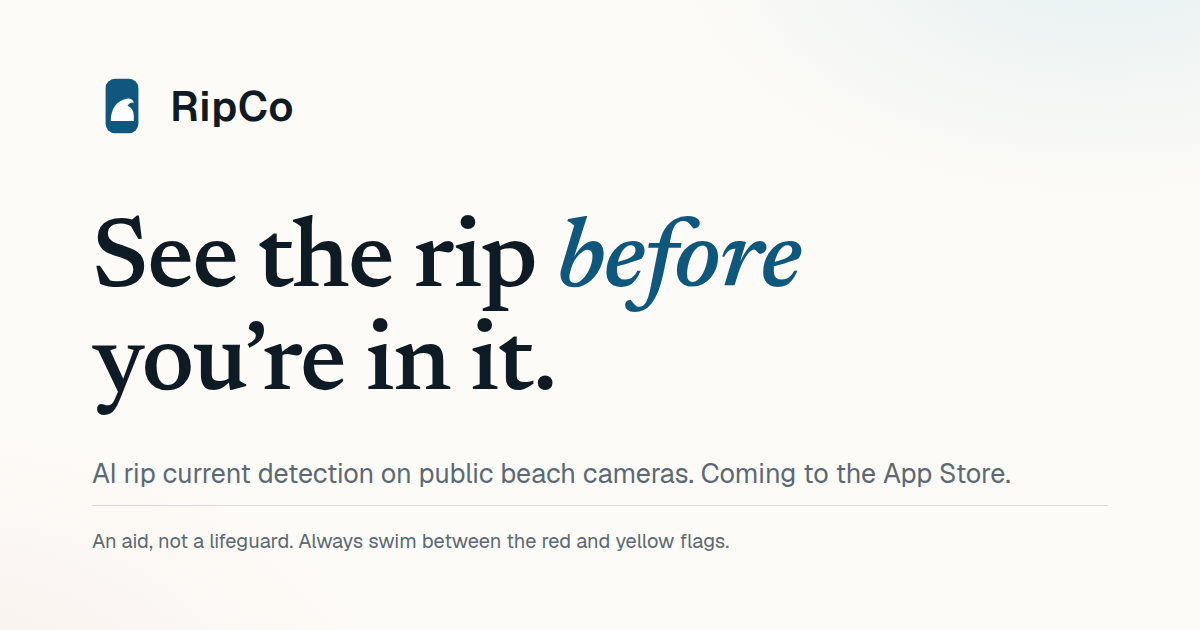
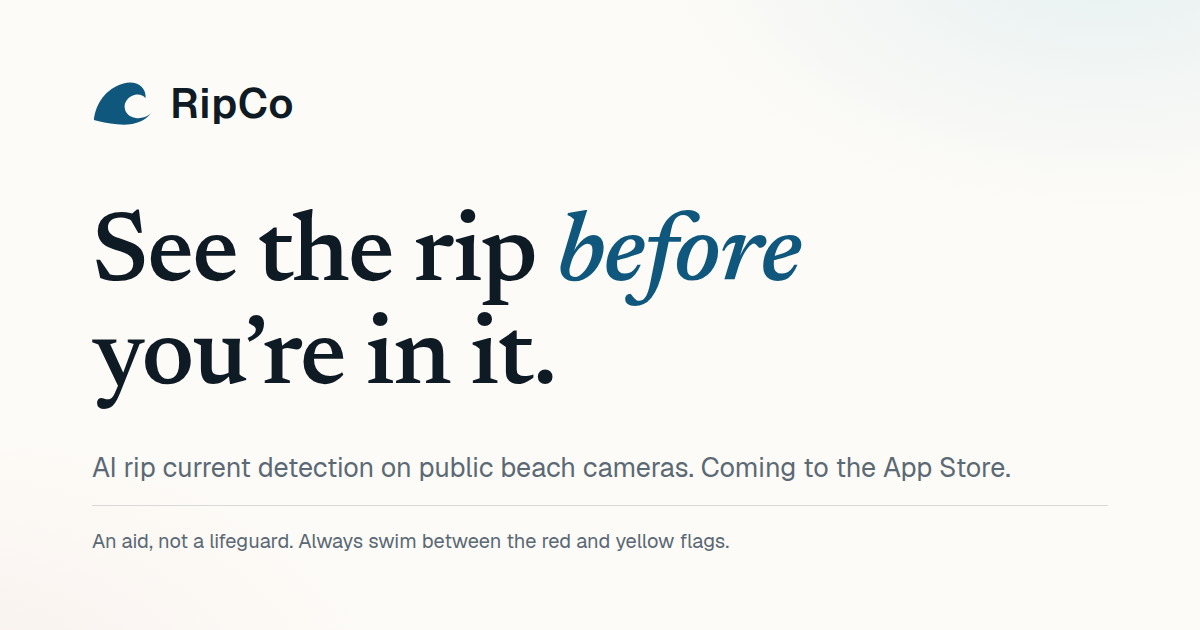
Adopt the standalone wave as the RipCo mark
- The brand mark is now the supplied breaking-wave silhouette, drawn
  as a single solid path in the accent blue, replacing the phone
  container everywhere: header and footer brand on all seven pages,
  assets/logo.svg, the favicon tile, and regenerated favicon-32,
  apple-touch-icon and og-image
- The giant cropped footer wordmark gains the same wave beside the
  word, in the watermark surface white at cap height, matching the
  reference closing treatment

Claude-Session: https://claude.ai/code/session_018vPxxK5AbKmmkks2Ty1eu9

diff --git a/styles.css b/styles.css
@@ -1582,6 +1582,15 @@ html.js .faq__panel-inner { overflow: hidden; }
   color: var(--surface);
   user-select: none;
 }
+/* The wave mark sits beside the giant wordmark in the same
+   watermark surface white, cap-height sized */
+.site-footer__wordmark svg {
+  display: inline-block;
+  height: 0.68em;
+  width: auto;
+  margin-right: 0.09em;
+  vertical-align: baseline;
+}
 .site-footer__grid {
   display: grid;
   grid-template-columns: minmax(0, 2fr) repeat(4, minmax(0, 1fr));

diff --git a/404.html b/404.html
@@ -25,7 +25,7 @@
     <div class="scroll-progress" data-progress aria-hidden="true"></div>
     <div class="site-header__inner container container--wide">
       <a class="brand" href="/" aria-label="RipCo, home">
-        <svg class="brand__mark" viewBox="0 0 64 64" aria-hidden="true" focusable="false"><rect x="14.5" y="3" width="35" height="58" rx="10" fill="var(--accent)"/><path fill="var(--on-accent)" d="M20 48 C20 35 26.5 25.8 37 24.2 C40.6 23.6 43.7 25.3 44.8 28.3 C42 27.9 39.3 29.1 37.8 31.8 C42 33.3 44.6 37.4 44.6 42.6 L44.6 48 Z"/></svg>
+        <svg class="brand__mark" viewBox="9 13 48 38" aria-hidden="true" focusable="false"><path fill="var(--accent)" d="M10.5 45.5 C12 32 20.5 20.5 33.5 16.6 C39.5 14.8 45 15.6 48.4 18.8 C51 21.2 52.2 24.6 51.8 28.2 C49.4 25 44.6 24.3 40.4 26.6 C36.6 28.7 34.7 32.3 35.2 36 C35.7 40.2 39.3 43.4 44 44 C48.3 44.6 52.8 43.2 56 40.4 C51 47.4 40.5 50.4 29 49 C22 48.2 15.3 47 10.5 45.5 Z"/></svg>
         <span class="brand__name">RipCo</span>
       </a>
       <button class="nav-toggle" type="button" aria-expanded="false" aria-controls="site-nav" aria-label="Menu" data-nav-toggle>
@@ -75,7 +75,7 @@
       <div class="site-footer__grid">
         <div class="site-footer__brand">
           <a class="brand" href="/" aria-label="RipCo, home">
-            <svg class="brand__mark" viewBox="0 0 64 64" aria-hidden="true" focusable="false"><rect x="14.5" y="3" width="35" height="58" rx="10" fill="var(--accent)"/><path fill="var(--on-accent)" d="M20 48 C20 35 26.5 25.8 37 24.2 C40.6 23.6 43.7 25.3 44.8 28.3 C42 27.9 39.3 29.1 37.8 31.8 C42 33.3 44.6 37.4 44.6 42.6 L44.6 48 Z"/></svg>
+            <svg class="brand__mark" viewBox="9 13 48 38" aria-hidden="true" focusable="false"><path fill="var(--accent)" d="M10.5 45.5 C12 32 20.5 20.5 33.5 16.6 C39.5 14.8 45 15.6 48.4 18.8 C51 21.2 52.2 24.6 51.8 28.2 C49.4 25 44.6 24.3 40.4 26.6 C36.6 28.7 34.7 32.3 35.2 36 C35.7 40.2 39.3 43.4 44 44 C48.3 44.6 52.8 43.2 56 40.4 C51 47.4 40.5 50.4 29 49 C22 48.2 15.3 47 10.5 45.5 Z"/></svg>
             <span class="brand__name">RipCo</span>
           </a>
           <p class="site-footer__line">Always swim between the red and yellow flags and follow the lifeguards. RipCo is an aid and not a substitute for lifeguard advice.</p>
@@ -116,7 +116,7 @@
         <p>Rip currents can appear even in calmer-looking water.</p>
       </div>
     </div>
-    <div class="site-footer__wordmark" aria-hidden="true"><span>RipCo</span></div>
+    <div class="site-footer__wordmark" aria-hidden="true"><span><svg viewBox="9 13 48 38" focusable="false"><path fill="currentColor" d="M10.5 45.5 C12 32 20.5 20.5 33.5 16.6 C39.5 14.8 45 15.6 48.4 18.8 C51 21.2 52.2 24.6 51.8 28.2 C49.4 25 44.6 24.3 40.4 26.6 C36.6 28.7 34.7 32.3 35.2 36 C35.7 40.2 39.3 43.4 44 44 C48.3 44.6 52.8 43.2 56 40.4 C51 47.4 40.5 50.4 29 49 C22 48.2 15.3 47 10.5 45.5 Z"/></svg>RipCo</span></div>
   </footer>
 
 </body>

diff --git a/account.html b/account.html
@@ -30,7 +30,7 @@
     <div class="scroll-progress" data-progress aria-hidden="true"></div>
     <div class="site-header__inner container container--wide">
       <a class="brand" href="/" aria-label="RipCo, home">
-        <svg class="brand__mark" viewBox="0 0 64 64" aria-hidden="true" focusable="false"><rect x="14.5" y="3" width="35" height="58" rx="10" fill="var(--accent)"/><path fill="var(--on-accent)" d="M20 48 C20 35 26.5 25.8 37 24.2 C40.6 23.6 43.7 25.3 44.8 28.3 C42 27.9 39.3 29.1 37.8 31.8 C42 33.3 44.6 37.4 44.6 42.6 L44.6 48 Z"/></svg>
+        <svg class="brand__mark" viewBox="9 13 48 38" aria-hidden="true" focusable="false"><path fill="var(--accent)" d="M10.5 45.5 C12 32 20.5 20.5 33.5 16.6 C39.5 14.8 45 15.6 48.4 18.8 C51 21.2 52.2 24.6 51.8 28.2 C49.4 25 44.6 24.3 40.4 26.6 C36.6 28.7 34.7 32.3 35.2 36 C35.7 40.2 39.3 43.4 44 44 C48.3 44.6 52.8 43.2 56 40.4 C51 47.4 40.5 50.4 29 49 C22 48.2 15.3 47 10.5 45.5 Z"/></svg>
         <span class="brand__name">RipCo</span>
       </a>
       <button class="nav-toggle" type="button" aria-expanded="false" aria-controls="site-nav" aria-label="Menu" data-nav-toggle>
@@ -232,7 +232,7 @@
       <div class="site-footer__grid">
         <div class="site-footer__brand">
           <a class="brand" href="/" aria-label="RipCo, home">
-            <svg class="brand__mark" viewBox="0 0 64 64" aria-hidden="true" focusable="false"><rect x="14.5" y="3" width="35" height="58" rx="10" fill="var(--accent)"/><path fill="var(--on-accent)" d="M20 48 C20 35 26.5 25.8 37 24.2 C40.6 23.6 43.7 25.3 44.8 28.3 C42 27.9 39.3 29.1 37.8 31.8 C42 33.3 44.6 37.4 44.6 42.6 L44.6 48 Z"/></svg>
+            <svg class="brand__mark" viewBox="9 13 48 38" aria-hidden="true" focusable="false"><path fill="var(--accent)" d="M10.5 45.5 C12 32 20.5 20.5 33.5 16.6 C39.5 14.8 45 15.6 48.4 18.8 C51 21.2 52.2 24.6 51.8 28.2 C49.4 25 44.6 24.3 40.4 26.6 C36.6 28.7 34.7 32.3 35.2 36 C35.7 40.2 39.3 43.4 44 44 C48.3 44.6 52.8 43.2 56 40.4 C51 47.4 40.5 50.4 29 49 C22 48.2 15.3 47 10.5 45.5 Z"/></svg>
             <span class="brand__name">RipCo</span>
           </a>
           <p class="site-footer__line">Always swim between the red and yellow flags and follow the lifeguards. RipCo is an aid and not a substitute for lifeguard advice.</p>
@@ -273,7 +273,7 @@
         <p>Rip currents can appear even in calmer-looking water.</p>
       </div>
     </div>
-    <div class="site-footer__wordmark" aria-hidden="true"><span>RipCo</span></div>
+    <div class="site-footer__wordmark" aria-hidden="true"><span><svg viewBox="9 13 48 38" focusable="false"><path fill="currentColor" d="M10.5 45.5 C12 32 20.5 20.5 33.5 16.6 C39.5 14.8 45 15.6 48.4 18.8 C51 21.2 52.2 24.6 51.8 28.2 C49.4 25 44.6 24.3 40.4 26.6 C36.6 28.7 34.7 32.3 35.2 36 C35.7 40.2 39.3 43.4 44 44 C48.3 44.6 52.8 43.2 56 40.4 C51 47.4 40.5 50.4 29 49 C22 48.2 15.3 47 10.5 45.5 Z"/></svg>RipCo</span></div>
   </footer>
 
 </body>

diff --git a/beaches.html b/beaches.html
@@ -32,7 +32,7 @@
     <div class="scroll-progress" data-progress aria-hidden="true"></div>
     <div class="site-header__inner container container--wide">
       <a class="brand" href="/" aria-label="RipCo, home">
-        <svg class="brand__mark" viewBox="0 0 64 64" aria-hidden="true" focusable="false"><rect x="14.5" y="3" width="35" height="58" rx="10" fill="var(--accent)"/><path fill="var(--on-accent)" d="M20 48 C20 35 26.5 25.8 37 24.2 C40.6 23.6 43.7 25.3 44.8 28.3 C42 27.9 39.3 29.1 37.8 31.8 C42 33.3 44.6 37.4 44.6 42.6 L44.6 48 Z"/></svg>
+        <svg class="brand__mark" viewBox="9 13 48 38" aria-hidden="true" focusable="false"><path fill="var(--accent)" d="M10.5 45.5 C12 32 20.5 20.5 33.5 16.6 C39.5 14.8 45 15.6 48.4 18.8 C51 21.2 52.2 24.6 51.8 28.2 C49.4 25 44.6 24.3 40.4 26.6 C36.6 28.7 34.7 32.3 35.2 36 C35.7 40.2 39.3 43.4 44 44 C48.3 44.6 52.8 43.2 56 40.4 C51 47.4 40.5 50.4 29 49 C22 48.2 15.3 47 10.5 45.5 Z"/></svg>
         <span class="brand__name">RipCo</span>
       </a>
       <button class="nav-toggle" type="button" aria-expanded="false" aria-controls="site-nav" aria-label="Menu" data-nav-toggle>
@@ -243,7 +243,7 @@
       <div class="site-footer__grid">
         <div class="site-footer__brand">
           <a class="brand" href="/" aria-label="RipCo, home">
-            <svg class="brand__mark" viewBox="0 0 64 64" aria-hidden="true" focusable="false"><rect x="14.5" y="3" width="35" height="58" rx="10" fill="var(--accent)"/><path fill="var(--on-accent)" d="M20 48 C20 35 26.5 25.8 37 24.2 C40.6 23.6 43.7 25.3 44.8 28.3 C42 27.9 39.3 29.1 37.8 31.8 C42 33.3 44.6 37.4 44.6 42.6 L44.6 48 Z"/></svg>
+            <svg class="brand__mark" viewBox="9 13 48 38" aria-hidden="true" focusable="false"><path fill="var(--accent)" d="M10.5 45.5 C12 32 20.5 20.5 33.5 16.6 C39.5 14.8 45 15.6 48.4 18.8 C51 21.2 52.2 24.6 51.8 28.2 C49.4 25 44.6 24.3 40.4 26.6 C36.6 28.7 34.7 32.3 35.2 36 C35.7 40.2 39.3 43.4 44 44 C48.3 44.6 52.8 43.2 56 40.4 C51 47.4 40.5 50.4 29 49 C22 48.2 15.3 47 10.5 45.5 Z"/></svg>
             <span class="brand__name">RipCo</span>
           </a>
           <p class="site-footer__line">Always swim between the red and yellow flags and follow the lifeguards. RipCo is an aid and not a substitute for lifeguard advice.</p>
@@ -284,7 +284,7 @@
         <p>Rip currents can appear even in calmer-looking water.</p>
       </div>
     </div>
-    <div class="site-footer__wordmark" aria-hidden="true"><span>RipCo</span></div>
+    <div class="site-footer__wordmark" aria-hidden="true"><span><svg viewBox="9 13 48 38" focusable="false"><path fill="currentColor" d="M10.5 45.5 C12 32 20.5 20.5 33.5 16.6 C39.5 14.8 45 15.6 48.4 18.8 C51 21.2 52.2 24.6 51.8 28.2 C49.4 25 44.6 24.3 40.4 26.6 C36.6 28.7 34.7 32.3 35.2 36 C35.7 40.2 39.3 43.4 44 44 C48.3 44.6 52.8 43.2 56 40.4 C51 47.4 40.5 50.4 29 49 C22 48.2 15.3 47 10.5 45.5 Z"/></svg>RipCo</span></div>
   </footer>
 
 </body>

diff --git a/features.html b/features.html
@@ -29,7 +29,7 @@
     <div class="scroll-progress" data-progress aria-hidden="true"></div>
     <div class="site-header__inner container container--wide">
       <a class="brand" href="/" aria-label="RipCo, home">
-        <svg class="brand__mark" viewBox="0 0 64 64" aria-hidden="true" focusable="false"><rect x="14.5" y="3" width="35" height="58" rx="10" fill="var(--accent)"/><path fill="var(--on-accent)" d="M20 48 C20 35 26.5 25.8 37 24.2 C40.6 23.6 43.7 25.3 44.8 28.3 C42 27.9 39.3 29.1 37.8 31.8 C42 33.3 44.6 37.4 44.6 42.6 L44.6 48 Z"/></svg>
+        <svg class="brand__mark" viewBox="9 13 48 38" aria-hidden="true" focusable="false"><path fill="var(--accent)" d="M10.5 45.5 C12 32 20.5 20.5 33.5 16.6 C39.5 14.8 45 15.6 48.4 18.8 C51 21.2 52.2 24.6 51.8 28.2 C49.4 25 44.6 24.3 40.4 26.6 C36.6 28.7 34.7 32.3 35.2 36 C35.7 40.2 39.3 43.4 44 44 C48.3 44.6 52.8 43.2 56 40.4 C51 47.4 40.5 50.4 29 49 C22 48.2 15.3 47 10.5 45.5 Z"/></svg>
         <span class="brand__name">RipCo</span>
       </a>
       <button class="nav-toggle" type="button" aria-expanded="false" aria-controls="site-nav" aria-label="Menu" data-nav-toggle>
@@ -199,7 +199,7 @@
       <div class="site-footer__grid">
         <div class="site-footer__brand">
           <a class="brand" href="/" aria-label="RipCo, home">
-            <svg class="brand__mark" viewBox="0 0 64 64" aria-hidden="true" focusable="false"><rect x="14.5" y="3" width="35" height="58" rx="10" fill="var(--accent)"/><path fill="var(--on-accent)" d="M20 48 C20 35 26.5 25.8 37 24.2 C40.6 23.6 43.7 25.3 44.8 28.3 C42 27.9 39.3 29.1 37.8 31.8 C42 33.3 44.6 37.4 44.6 42.6 L44.6 48 Z"/></svg>
+            <svg class="brand__mark" viewBox="9 13 48 38" aria-hidden="true" focusable="false"><path fill="var(--accent)" d="M10.5 45.5 C12 32 20.5 20.5 33.5 16.6 C39.5 14.8 45 15.6 48.4 18.8 C51 21.2 52.2 24.6 51.8 28.2 C49.4 25 44.6 24.3 40.4 26.6 C36.6 28.7 34.7 32.3 35.2 36 C35.7 40.2 39.3 43.4 44 44 C48.3 44.6 52.8 43.2 56 40.4 C51 47.4 40.5 50.4 29 49 C22 48.2 15.3 47 10.5 45.5 Z"/></svg>
             <span class="brand__name">RipCo</span>
           </a>
           <p class="site-footer__line">Always swim between the red and yellow flags and follow the lifeguards. RipCo is an aid and not a substitute for lifeguard advice.</p>
@@ -240,7 +240,7 @@
         <p>Rip currents can appear even in calmer-looking water.</p>
       </div>
     </div>
-    <div class="site-footer__wordmark" aria-hidden="true"><span>RipCo</span></div>
+    <div class="site-footer__wordmark" aria-hidden="true"><span><svg viewBox="9 13 48 38" focusable="false"><path fill="currentColor" d="M10.5 45.5 C12 32 20.5 20.5 33.5 16.6 C39.5 14.8 45 15.6 48.4 18.8 C51 21.2 52.2 24.6 51.8 28.2 C49.4 25 44.6 24.3 40.4 26.6 C36.6 28.7 34.7 32.3 35.2 36 C35.7 40.2 39.3 43.4 44 44 C48.3 44.6 52.8 43.2 56 40.4 C51 47.4 40.5 50.4 29 49 C22 48.2 15.3 47 10.5 45.5 Z"/></svg>RipCo</span></div>
   </footer>
 
 </body>

diff --git a/how-it-works.html b/how-it-works.html
@@ -29,7 +29,7 @@
     <div class="scroll-progress" data-progress aria-hidden="true"></div>
     <div class="site-header__inner container container--wide">
       <a class="brand" href="/" aria-label="RipCo, home">
-        <svg class="brand__mark" viewBox="0 0 64 64" aria-hidden="true" focusable="false"><rect x="14.5" y="3" width="35" height="58" rx="10" fill="var(--accent)"/><path fill="var(--on-accent)" d="M20 48 C20 35 26.5 25.8 37 24.2 C40.6 23.6 43.7 25.3 44.8 28.3 C42 27.9 39.3 29.1 37.8 31.8 C42 33.3 44.6 37.4 44.6 42.6 L44.6 48 Z"/></svg>
+        <svg class="brand__mark" viewBox="9 13 48 38" aria-hidden="true" focusable="false"><path fill="var(--accent)" d="M10.5 45.5 C12 32 20.5 20.5 33.5 16.6 C39.5 14.8 45 15.6 48.4 18.8 C51 21.2 52.2 24.6 51.8 28.2 C49.4 25 44.6 24.3 40.4 26.6 C36.6 28.7 34.7 32.3 35.2 36 C35.7 40.2 39.3 43.4 44 44 C48.3 44.6 52.8 43.2 56 40.4 C51 47.4 40.5 50.4 29 49 C22 48.2 15.3 47 10.5 45.5 Z"/></svg>
         <span class="brand__name">RipCo</span>
       </a>
       <button class="nav-toggle" type="button" aria-expanded="false" aria-controls="site-nav" aria-label="Menu" data-nav-toggle>
@@ -237,7 +237,7 @@
       <div class="site-footer__grid">
         <div class="site-footer__brand">
           <a class="brand" href="/" aria-label="RipCo, home">
-            <svg class="brand__mark" viewBox="0 0 64 64" aria-hidden="true" focusable="false"><rect x="14.5" y="3" width="35" height="58" rx="10" fill="var(--accent)"/><path fill="var(--on-accent)" d="M20 48 C20 35 26.5 25.8 37 24.2 C40.6 23.6 43.7 25.3 44.8 28.3 C42 27.9 39.3 29.1 37.8 31.8 C42 33.3 44.6 37.4 44.6 42.6 L44.6 48 Z"/></svg>
+            <svg class="brand__mark" viewBox="9 13 48 38" aria-hidden="true" focusable="false"><path fill="var(--accent)" d="M10.5 45.5 C12 32 20.5 20.5 33.5 16.6 C39.5 14.8 45 15.6 48.4 18.8 C51 21.2 52.2 24.6 51.8 28.2 C49.4 25 44.6 24.3 40.4 26.6 C36.6 28.7 34.7 32.3 35.2 36 C35.7 40.2 39.3 43.4 44 44 C48.3 44.6 52.8 43.2 56 40.4 C51 47.4 40.5 50.4 29 49 C22 48.2 15.3 47 10.5 45.5 Z"/></svg>
             <span class="brand__name">RipCo</span>
           </a>
           <p class="site-footer__line">Always swim between the red and yellow flags and follow the lifeguards. RipCo is an aid and not a substitute for lifeguard advice.</p>
@@ -278,7 +278,7 @@
         <p>Rip currents can appear even in calmer-looking water.</p>
       </div>
     </div>
-    <div class="site-footer__wordmark" aria-hidden="true"><span>RipCo</span></div>
+    <div class="site-footer__wordmark" aria-hidden="true"><span><svg viewBox="9 13 48 38" focusable="false"><path fill="currentColor" d="M10.5 45.5 C12 32 20.5 20.5 33.5 16.6 C39.5 14.8 45 15.6 48.4 18.8 C51 21.2 52.2 24.6 51.8 28.2 C49.4 25 44.6 24.3 40.4 26.6 C36.6 28.7 34.7 32.3 35.2 36 C35.7 40.2 39.3 43.4 44 44 C48.3 44.6 52.8 43.2 56 40.4 C51 47.4 40.5 50.4 29 49 C22 48.2 15.3 47 10.5 45.5 Z"/></svg>RipCo</span></div>
   </footer>
 
 </body>

diff --git a/index.html b/index.html
@@ -42,7 +42,7 @@
     <div class="scroll-progress" data-progress aria-hidden="true"></div>
     <div class="site-header__inner container container--wide">
       <a class="brand" href="/" aria-label="RipCo, home">
-        <svg class="brand__mark" viewBox="0 0 64 64" aria-hidden="true" focusable="false"><rect x="14.5" y="3" width="35" height="58" rx="10" fill="var(--accent)"/><path fill="var(--on-accent)" d="M20 48 C20 35 26.5 25.8 37 24.2 C40.6 23.6 43.7 25.3 44.8 28.3 C42 27.9 39.3 29.1 37.8 31.8 C42 33.3 44.6 37.4 44.6 42.6 L44.6 48 Z"/></svg>
+        <svg class="brand__mark" viewBox="9 13 48 38" aria-hidden="true" focusable="false"><path fill="var(--accent)" d="M10.5 45.5 C12 32 20.5 20.5 33.5 16.6 C39.5 14.8 45 15.6 48.4 18.8 C51 21.2 52.2 24.6 51.8 28.2 C49.4 25 44.6 24.3 40.4 26.6 C36.6 28.7 34.7 32.3 35.2 36 C35.7 40.2 39.3 43.4 44 44 C48.3 44.6 52.8 43.2 56 40.4 C51 47.4 40.5 50.4 29 49 C22 48.2 15.3 47 10.5 45.5 Z"/></svg>
         <span class="brand__name">RipCo</span>
       </a>
       <button class="nav-toggle" type="button" aria-expanded="false" aria-controls="site-nav" aria-label="Menu" data-nav-toggle>
@@ -333,7 +333,7 @@
       <div class="site-footer__grid">
         <div class="site-footer__brand">
           <a class="brand" href="/" aria-label="RipCo, home">
-            <svg class="brand__mark" viewBox="0 0 64 64" aria-hidden="true" focusable="false"><rect x="14.5" y="3" width="35" height="58" rx="10" fill="var(--accent)"/><path fill="var(--on-accent)" d="M20 48 C20 35 26.5 25.8 37 24.2 C40.6 23.6 43.7 25.3 44.8 28.3 C42 27.9 39.3 29.1 37.8 31.8 C42 33.3 44.6 37.4 44.6 42.6 L44.6 48 Z"/></svg>
+            <svg class="brand__mark" viewBox="9 13 48 38" aria-hidden="true" focusable="false"><path fill="var(--accent)" d="M10.5 45.5 C12 32 20.5 20.5 33.5 16.6 C39.5 14.8 45 15.6 48.4 18.8 C51 21.2 52.2 24.6 51.8 28.2 C49.4 25 44.6 24.3 40.4 26.6 C36.6 28.7 34.7 32.3 35.2 36 C35.7 40.2 39.3 43.4 44 44 C48.3 44.6 52.8 43.2 56 40.4 C51 47.4 40.5 50.4 29 49 C22 48.2 15.3 47 10.5 45.5 Z"/></svg>
             <span class="brand__name">RipCo</span>
           </a>
           <p class="site-footer__line">Always swim between the red and yellow flags and follow the lifeguards. RipCo is an aid and not a substitute for lifeguard advice.</p>
@@ -374,7 +374,7 @@
         <p>Rip currents can appear even in calmer-looking water.</p>
       </div>
     </div>
-    <div class="site-footer__wordmark" aria-hidden="true"><span>RipCo</span></div>
+    <div class="site-footer__wordmark" aria-hidden="true"><span><svg viewBox="9 13 48 38" focusable="false"><path fill="currentColor" d="M10.5 45.5 C12 32 20.5 20.5 33.5 16.6 C39.5 14.8 45 15.6 48.4 18.8 C51 21.2 52.2 24.6 51.8 28.2 C49.4 25 44.6 24.3 40.4 26.6 C36.6 28.7 34.7 32.3 35.2 36 C35.7 40.2 39.3 43.4 44 44 C48.3 44.6 52.8 43.2 56 40.4 C51 47.4 40.5 50.4 29 49 C22 48.2 15.3 47 10.5 45.5 Z"/></svg>RipCo</span></div>
   </footer>
 
 </body>

diff --git a/safety.html b/safety.html
@@ -29,7 +29,7 @@
     <div class="scroll-progress" data-progress aria-hidden="true"></div>
     <div class="site-header__inner container container--wide">
       <a class="brand" href="/" aria-label="RipCo, home">
-        <svg class="brand__mark" viewBox="0 0 64 64" aria-hidden="true" focusable="false"><rect x="14.5" y="3" width="35" height="58" rx="10" fill="var(--accent)"/><path fill="var(--on-accent)" d="M20 48 C20 35 26.5 25.8 37 24.2 C40.6 23.6 43.7 25.3 44.8 28.3 C42 27.9 39.3 29.1 37.8 31.8 C42 33.3 44.6 37.4 44.6 42.6 L44.6 48 Z"/></svg>
+        <svg class="brand__mark" viewBox="9 13 48 38" aria-hidden="true" focusable="false"><path fill="var(--accent)" d="M10.5 45.5 C12 32 20.5 20.5 33.5 16.6 C39.5 14.8 45 15.6 48.4 18.8 C51 21.2 52.2 24.6 51.8 28.2 C49.4 25 44.6 24.3 40.4 26.6 C36.6 28.7 34.7 32.3 35.2 36 C35.7 40.2 39.3 43.4 44 44 C48.3 44.6 52.8 43.2 56 40.4 C51 47.4 40.5 50.4 29 49 C22 48.2 15.3 47 10.5 45.5 Z"/></svg>
         <span class="brand__name">RipCo</span>
       </a>
       <button class="nav-toggle" type="button" aria-expanded="false" aria-controls="site-nav" aria-label="Menu" data-nav-toggle>
@@ -183,7 +183,7 @@
       <div class="site-footer__grid">
         <div class="site-footer__brand">
           <a class="brand" href="/" aria-label="RipCo, home">
-            <svg class="brand__mark" viewBox="0 0 64 64" aria-hidden="true" focusable="false"><rect x="14.5" y="3" width="35" height="58" rx="10" fill="var(--accent)"/><path fill="var(--on-accent)" d="M20 48 C20 35 26.5 25.8 37 24.2 C40.6 23.6 43.7 25.3 44.8 28.3 C42 27.9 39.3 29.1 37.8 31.8 C42 33.3 44.6 37.4 44.6 42.6 L44.6 48 Z"/></svg>
+            <svg class="brand__mark" viewBox="9 13 48 38" aria-hidden="true" focusable="false"><path fill="var(--accent)" d="M10.5 45.5 C12 32 20.5 20.5 33.5 16.6 C39.5 14.8 45 15.6 48.4 18.8 C51 21.2 52.2 24.6 51.8 28.2 C49.4 25 44.6 24.3 40.4 26.6 C36.6 28.7 34.7 32.3 35.2 36 C35.7 40.2 39.3 43.4 44 44 C48.3 44.6 52.8 43.2 56 40.4 C51 47.4 40.5 50.4 29 49 C22 48.2 15.3 47 10.5 45.5 Z"/></svg>
             <span class="brand__name">RipCo</span>
           </a>
           <p class="site-footer__line">Always swim between the red and yellow flags and follow the lifeguards. RipCo is an aid and not a substitute for lifeguard advice.</p>
@@ -224,7 +224,7 @@
         <p>Rip currents can appear even in calmer-looking water.</p>
       </div>
     </div>
-    <div class="site-footer__wordmark" aria-hidden="true"><span>RipCo</span></div>
+    <div class="site-footer__wordmark" aria-hidden="true"><span><svg viewBox="9 13 48 38" focusable="false"><path fill="currentColor" d="M10.5 45.5 C12 32 20.5 20.5 33.5 16.6 C39.5 14.8 45 15.6 48.4 18.8 C51 21.2 52.2 24.6 51.8 28.2 C49.4 25 44.6 24.3 40.4 26.6 C36.6 28.7 34.7 32.3 35.2 36 C35.7 40.2 39.3 43.4 44 44 C48.3 44.6 52.8 43.2 56 40.4 C51 47.4 40.5 50.4 29 49 C22 48.2 15.3 47 10.5 45.5 Z"/></svg>RipCo</span></div>
   </footer>
 
 </body>